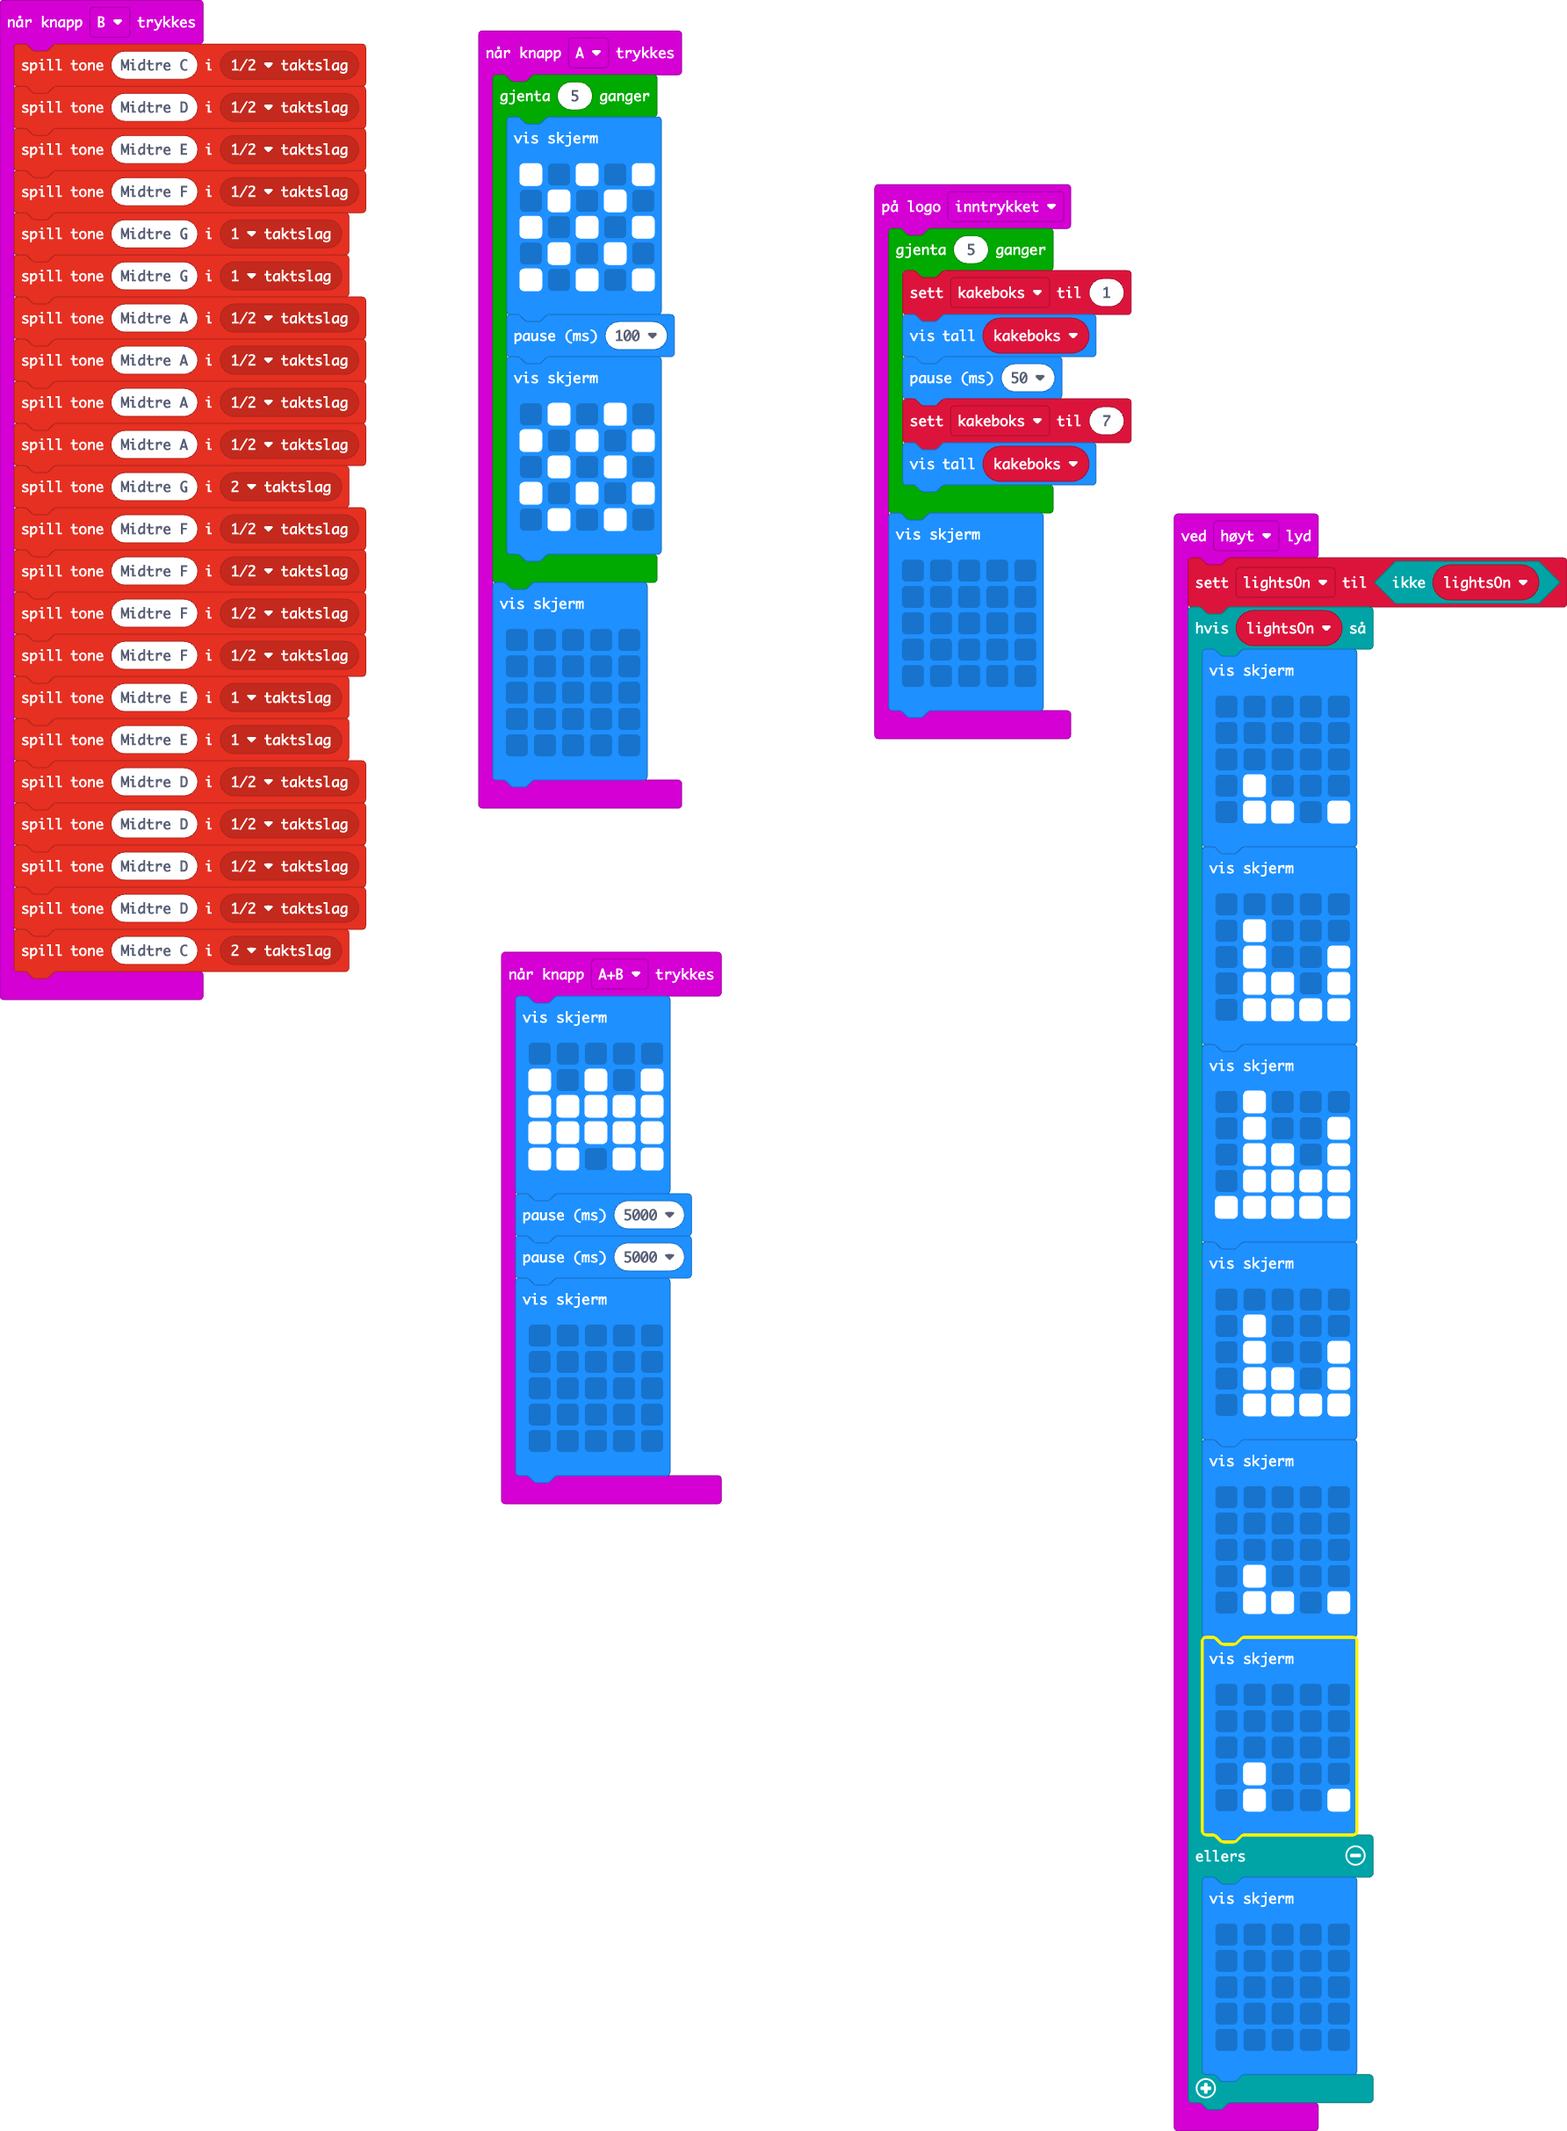
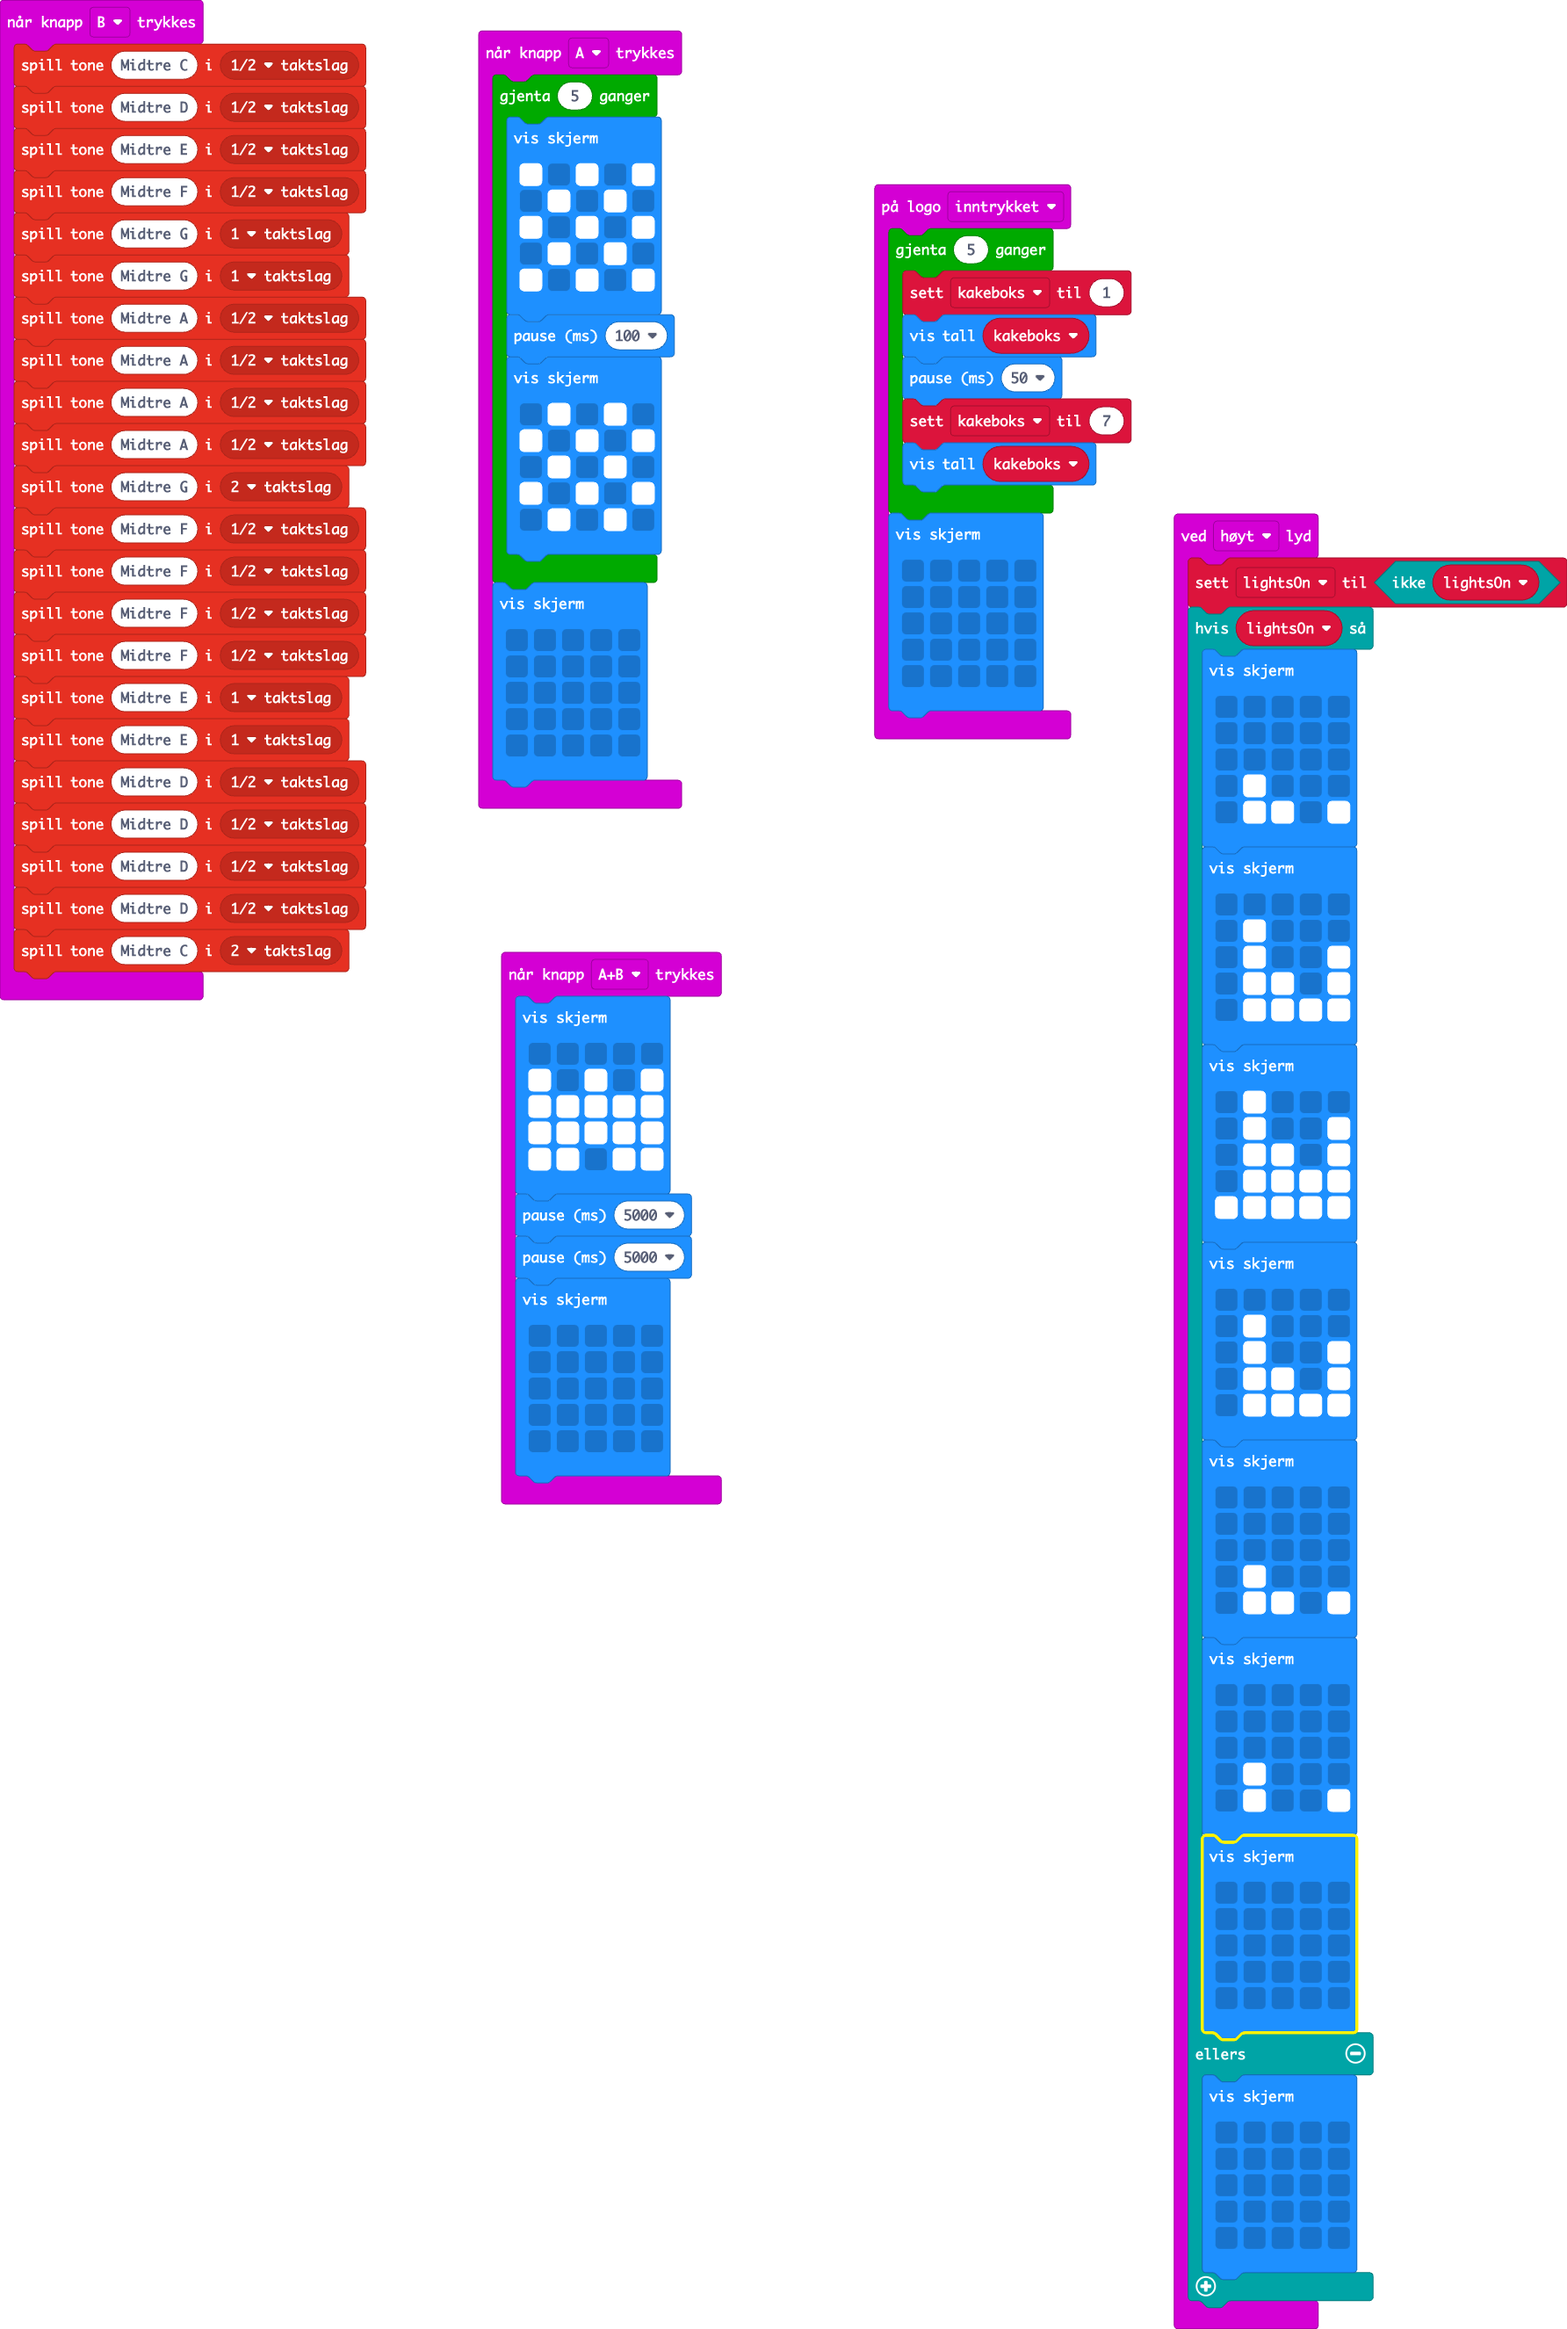
la til tom rutte

diff --git a/main.ts b/main.ts
@@ -129,6 +129,13 @@ input.onSound(DetectedSound.Loud, function () {
             . # . . .
             . # . . #
             `)
+        basic.showLeds(`
+            . . . . .
+            . . . . .
+            . . . . .
+            . . . . .
+            . . . . .
+            `)
     } else {
         basic.showLeds(`
             . . . . .
